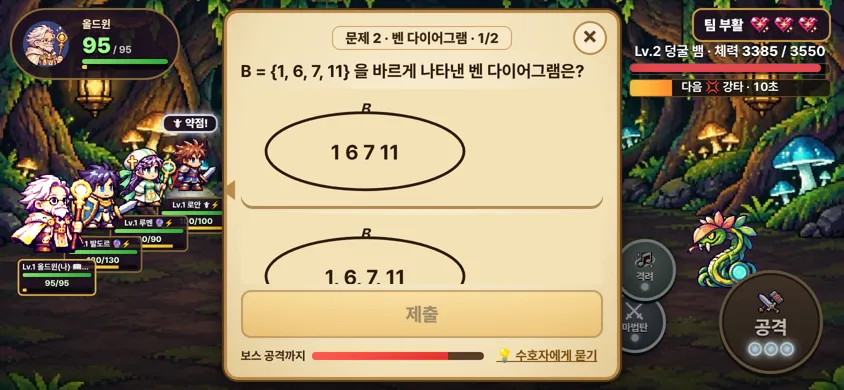
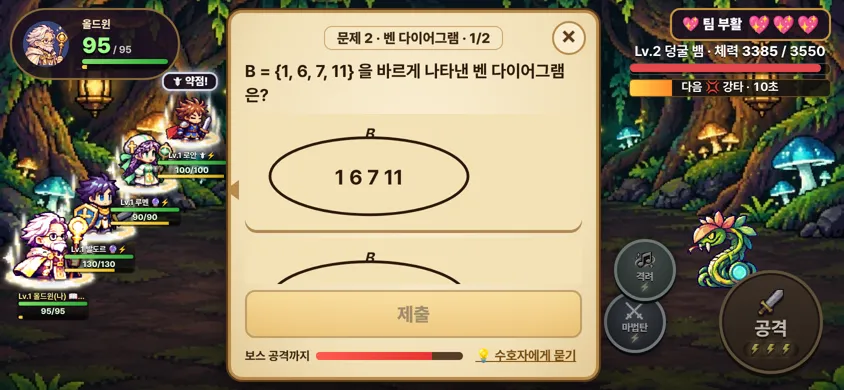
🎨 게시판 ATB 실드 그림 넣음(atb-shield 방패막 4 × 3 · atb-shield-slots 5계열 × 3 · 더하기 섞기) · 참고 그림 대조(이름표 = 상자 없이 글 + 막대 · 카드 44%) · 이름표 · 배지가 모든 용사 몸 위(카드 연 채 겹침 · 스킬 칸 ↔ 카드 끝 겹침 풂)
Claude-Session: https://claude.ai/code/session_014JJv1i25u9zUunrXW3xZfb

diff --git a/src/ui/board/atb/AtbBattle.svelte b/src/ui/board/atb/AtbBattle.svelte
@@ -140,6 +140,9 @@
   let pops = $state<Pop[]>([]), seen = 0, pk = 0, hpose = $state<Record<number, HPose | ''>>({}), hurtOn = $state<Record<number, boolean>>({}), bossPose = $state<'idle' | 'attack' | 'hit' | 'down'>('idle'), cut = $state<{ who: number; awk: boolean; name: string; short: boolean } | null>(null);
   // 🛡 실드 (📜 요청 #12): 칸마다 연출 단계(hold = 아직 멀쩡해 보임 · crack = 금 감 · shatter = 조각나며 사라짐) · 방패막 물결 · 산산조각 · 큰 문구
   const FAM_EMO: Record<Fam, string> = { arms: '🗡', flame: '🔥', nature: '🍃', wisdom: '📖', mystic: '🔮' };
+  // 🎨 실드 그림 (작업대 atb-shield · atb-shield-slots · 11/20): 방패막 4칸 × 3줄(서 있음 · 막음 · 깨짐) · 칸 아이콘 5계열 × 3줄(멀쩡 · 금 감 · 깨짐)
+  const SHIELD_URL = `${import.meta.env.BASE_URL}art/board-atb/atb-shield-v1.webp`, SLOT_URL = `${import.meta.env.BASE_URL}art/board-atb/atb-shield-slots-v1.webp`;
+  const FAM_COL_I: Record<Fam, number> = { arms: 0, flame: 1, nature: 2, wisdom: 3, mystic: 4 };
   const FAM_COL: Record<Fam, string> = { arms: '#d8dcf0', flame: '#ff7a2a', nature: '#6ee05a', wisdom: '#5ab0ff', mystic: '#c88aff' };
   let cellAnim = $state<Record<number, 'hold' | 'crack' | 'shatter'>>({}), barrier = $state<'' | 'up' | 'ripple' | 'shatter'>(''), bigMsg = $state<{ t: string; cls: string } | null>(null), bossShield = $state(false);
   let msgN = 0, cutN = 0; // $state 는 넣은 객체를 프록시로 바꿈 → 같은지 = 번호로
@@ -336,19 +339,19 @@
       <div class="cells" data-k="atb-cells" aria-label="실드 {S.cells.filter((c) => !c.broken).length}칸 남음">
         {#each S.cells as c, i (i)}
           {@const st = cellAnim[i] ?? (c.broken ? 'gone' : 'ok')}
-          <span class="cell2 {st}" style:--fc={FAM_COL[c.fam]} data-st={st} title="{S.heroes[c.owner]?.s.name} · {FAM_NAME[c.fam]}"><i class="em">{FAM_EMO[c.fam]}</i>{#if st === 'crack' || st === 'shatter'}<i class="ck" aria-hidden="true"></i>{/if}{#if st === 'shatter'}{#each [0, 1, 2, 3, 4, 5] as k (k)}<b class="sh" style:--a="{k * 60}deg"></b>{/each}{/if}{#if S.boss.sig === 'lock'}<i class="lk" aria-hidden="true">{c.broken ? '🔓' : '🔒'}</i>{/if}</span>
+          <span class="cell2 {st}" style:--fc={FAM_COL[c.fam]} style:--col={FAM_COL_I[c.fam]} data-st={st} title="{S.heroes[c.owner]?.s.name} · {FAM_NAME[c.fam]}"><i class="sl" style:background-image="url({SLOT_URL})" aria-hidden="true"></i>{#if S.boss.sig === 'lock'}<i class="lk" aria-hidden="true">{c.broken ? '🔓' : '🔒'}</i>{/if}</span>
         {/each}
       </div>
     {/if}
   </div>
-  {#if barrier || (S.shieldUp && S.cells.some((c) => !c.broken))}<i class="barrier {barrier || 'up'}" style:left={open ? '86%' : '73%'} style:width="{Math.round(bossSize * 1.25)}px" style:height="{Math.round(bossSize * 1.15)}px" data-k="atb-barrier" aria-hidden="true"></i>{/if}
+  {#if barrier || (S.shieldUp && S.cells.some((c) => !c.broken))}<i class="barrier {barrier || 'up'}" style:left={open ? '86%' : '73%'} style:width="{Math.round(bossSize * 1.25)}px" style:height="{Math.round(bossSize * 1.25)}px" style:background-image="url({SHIELD_URL})" data-k="atb-barrier" aria-hidden="true"></i>{/if}
   <div class="boss" class:roar={bossShield} class:stone={stone > 0} style:left={open ? '86%' : '73%'} style:width="{bossSize}px" style:height="{bossSize}px" data-k="atb-boss" data-flip={S.boss.flip?.[bossPose] ? 1 : 0} bind:this={bossEl}><i class="bflip" class:flip={!!S.boss.flip?.[bossPose]} class:armor class:shine={mirrorLeft > 0} class:breath={breathLeft > 0}><Sprite ref={S.boss.sprite} pose={bossPose} size={bossSize} /></i></div>
 
   <!-- 용사 -->
   {#each S.heroes as h (h.id)}
     {@const p = posOf(h.id)}
     {@const sc = +(base * p.s).toFixed(2)}
-    <div class="hero" class:down={h.down} class:mine={h.id === me} class:hurt={hurtOn[h.id]} class:aura={auraOn && !h.down} style:left="{p.x}%" style:top="{p.y}%" style:z-index={10 + (4 - order.indexOf(h.id))} data-k="atb-hero" data-id={h.id}>
+    <div class="hero" class:down={h.down} class:mine={h.id === me} class:hurt={hurtOn[h.id]} class:aura={auraOn && !h.down} style:left="{p.x}%" style:top="{p.y}%" style:--zi={10 + (4 - order.indexOf(h.id))} data-k="atb-hero" data-id={h.id}>
       {#if isWeak(h.id) && !h.down}<i class="wglow" style:--fc={FAM_COL[h.s.fam]} aria-hidden="true"></i><i class="wbadge" style:--fc={FAM_COL[h.s.fam]} style:top="{-Math.round(base * p.s * 64 * 1.02) - 22}px" data-k="atb-weak">{FAM_EMO[h.s.fam]} 약점!</i>{/if}
       {#if S.target?.includes(h.id) && tele}{#if S.boss.tele === 'gaze' && !S.aoeNext}<i class="gaze" aria-label="보스가 바라봄">👁</i>{:else}<i class="tgt" aria-label="표적"></i>{/if}{#if !S.aoeNext}<i class="aimx" style:top="{-Math.round(base * p.s * 64 * 0.95)}px" data-k="atb-aim" aria-label="노림">⊕</i>{/if}{/if}
       <div class="spr" style:transform="translate(-50%, -100%)" bind:this={heroEls[h.id]}><HeroSprite id={lookOfStats(h.s)} scale={sc} aura={h.down ? 0 : h.s.enh} row={h.down ? 8 : 0} play={!h.down} pose={!h.down && hpose[h.id] ? hpose[h.id] || undefined : undefined} /><i class="hitpic" data-k="atb-hitpic" aria-hidden="true"></i></div>
@@ -442,7 +445,8 @@
   .bflip { display: block; } .bflip.flip { transform: scaleX(-1); } /* 몬스터는 늘 왼쪽(용사 쪽)을 봄 · 시트마다 · 자세마다 다름 = tune.ts BOSSES.flip */
   .boss { position: absolute; top: 74%; transform: translate(-50%, -100%); z-index: 11; transition: left 0.45s ease; }
   .hero { position: absolute; transition: left 0.45s ease, top 0.45s ease; }
-  .hero .spr { position: absolute; left: 0; top: 0; }
+  .hero .spr { position: absolute; left: 0; top: 0; z-index: var(--zi); } /* 앞 용사 몸 = 뒤 용사 몸 위 · 이름표 · 배지 = 모든 몸 위 (요청 #15) */
+  .hero .tag, .hero .wbadge, .hero .sos, .hero .aimx { z-index: 20; }
   .hero.down .spr { filter: grayscale(1) brightness(0.6); }
   .tele.sig { background: linear-gradient(#3a5ac8, #1d2f8e); border-color: #9fd0ff; box-shadow: 0 0 10px #5aa9ff88; }
   .bflip.armor { filter: drop-shadow(0 0 4px #9fe6ff) drop-shadow(0 0 10px #5ac8ff) saturate(0.7) brightness(1.15); } /* 4 얼음 갑옷 */
@@ -452,15 +456,15 @@
   .pop.heal { color: #7dffb0; font-size: 20px; }
   .tgt { position: absolute; left: -26px; top: -10px; width: 52px; height: 18px; border-radius: 50%; border: 3px solid #ff3a2a; box-shadow: 0 0 10px #ff3a2a; animation: blink 0.4s steps(2) infinite; }
   .cov { position: absolute; left: 14px; top: -54px; }
-  .tag { position: absolute; left: -42px; top: 2px; width: 84px; display: flex; flex-direction: column; gap: 2px; padding: 2px 4px 3px; border-radius: 6px; border: 2px solid #8a6a3a; background: #1d1220d9; }
+  .tag { position: absolute; left: -42px; top: 2px; width: 84px; display: flex; flex-direction: column; gap: 1px; padding: 1px 2px 2px; border-radius: 6px; border: none; background: linear-gradient(#0000, #0006 30%, #0006); text-shadow: 0 1px 0 #000, 0 0 3px #000; } /* 📜 요청 #14 참고 그림 = 상자 없이 글 + 막대 */
   .tag > b { font: 700 9.5px var(--font-plain); text-align: center; white-space: nowrap; overflow: hidden; text-overflow: ellipsis; }
-  .hero.mine .tag { border-color: #e2b04a; }
+  .hero.mine .tag > b { color: #ffe08a; }
   .hz { font-size: 9px; font-style: normal; line-height: 1; }
   .pop { position: absolute; z-index: 25; transform: translate(-50%, 0); font: 900 22px var(--font); color: #fff; text-shadow: 0 2px 0 #000, 0 0 6px #000; pointer-events: none; animation: up 1.1s ease-out forwards; white-space: nowrap; }
   .pop.crit { color: #ffe066; font-size: 34px; } .pop.sk { color: #8fd0ff; font-size: 34px; } .pop.ult { color: #ffd34d; font-size: 46px; } .pop.hurt { color: #ff6a6a; font-size: 20px; } .pop.hurt.big { font-size: 26px; } .pop.miss { color: #ccc; font-size: 20px; }
   .pop.crit, .pop.sk, .pop.ult { animation: upbig 1.1s ease-out forwards; } @keyframes upbig { 0% { opacity: 1; transform: translate(-50%, 0) scale(1.8); } 15% { transform: translate(-50%, -6px) scale(1); } 100% { opacity: 0; transform: translate(-50%, -56px) scale(1); } } .pop.shield { color: #9fe6ff; font-size: 22px; } .pop.role { color: #9dff9a; font-size: 16px; }
   @keyframes up { from { opacity: 1; transform: translate(-50%, 0); } to { opacity: 0; transform: translate(-50%, -48px); } }
-  .card { position: absolute; z-index: 26; left: 26.5%; top: 2.5%; bottom: 2.5%; width: 47%; animation: slide 0.35s ease-out; transform-origin: 10% 10%; } /* Y7 약 47% */
+  .card { position: absolute; z-index: 26; left: 27%; top: 2.5%; bottom: 2.5%; width: 44%; animation: slide 0.35s ease-out; transform-origin: 10% 10%; } /* Y7 약 47% */
   .card.suck { transition: transform 0.42s ease-in, opacity 0.42s ease-in; transform: translate(-80%, -20%) scale(0.05) rotate(-20deg); opacity: 0; }
   @keyframes slide { from { transform: translateX(30px); opacity: 0; } }
   /* ⚔ 오른쪽 아래 큰 공격 단추 + 둘레 스킬 고리 (요청 #9) · 📜 문제 풀기 = 왼쪽 아래 · 문제를 열면 = 카드 왼쪽 */
@@ -523,23 +527,22 @@
   @media (prefers-reduced-motion: reduce) { .weakb, .tele, .b.atk.hot, .tgt, .barrier, .bigmsg { animation: none; } }
   /* 🛡 실드 칸 = 보스 체력바 아래 크게 한 줄 (요청 #12 ② · 그림 atb-shield-slots 오기 전 = 큰 이모지 + 굵은 계열 색 테두리) */
   .cells { display: flex; justify-content: center; gap: 8px; margin-top: 2px; }
-  .cell2 { position: relative; width: 44px; height: 44px; border-radius: 12px; display: grid; place-items: center; border: 4px solid var(--fc); background: radial-gradient(circle at 50% 35%, #ffffff40, #0009 70%); box-shadow: 0 0 10px var(--fc), inset 0 0 8px var(--fc); }
-  .cell2 .em { font-style: normal; font-size: 24px; line-height: 1; filter: drop-shadow(0 2px 0 #000); }
+  .cell2 { position: relative; width: 48px; height: 48px; display: grid; place-items: center; filter: drop-shadow(0 0 6px var(--fc)); }
+  .cell2 .sl { position: absolute; inset: 0; background-repeat: no-repeat; background-size: 500% 300%; background-position: calc(var(--col) * 25%) 0%; image-rendering: pixelated; }
+  .cell2.crack .sl, .cell2.hold.crk .sl { background-position-y: 50%; } .cell2.shatter .sl { background-position-y: 100%; }
   .cell2.hold { animation: none; }
-  .cell2.crack { animation: cshake 0.38s; } .cell2.crack .em, .cell2.shatter .em { filter: brightness(1.6) drop-shadow(0 2px 0 #000); }
-  .cell2 .ck { position: absolute; inset: 2px; border-radius: 8px; background: linear-gradient(115deg, #0000 44%, #fff 46%, #0000 48%), linear-gradient(60deg, #0000 55%, #fff 57%, #0000 59%), linear-gradient(160deg, #0000 30%, #fffc 32%, #0000 34%); pointer-events: none; }
+  .cell2.crack { animation: cshake 0.38s; }
   @keyframes cshake { 20% { translate: -3px 0; } 40% { translate: 3px 0; } 60% { translate: -2px 0; } 80% { translate: 2px 0; } }
   .cell2.shatter { animation: cgone 0.45s ease-in forwards; }
   @keyframes cgone { to { opacity: 0; scale: 1.3; } }
-  .cell2 .sh { position: absolute; left: 50%; top: 50%; width: 10px; height: 10px; background: var(--fc); clip-path: polygon(0 0, 100% 30%, 40% 100%); animation: shard 0.45s ease-out forwards; }
-  @keyframes shard { from { transform: translate(-50%, -50%) rotate(var(--a)) translateY(0); } to { transform: translate(-50%, -50%) rotate(var(--a)) translateY(-34px) rotate(200deg); opacity: 0; } }
-  .cell2.gone { border-style: dashed; border-color: #ffffff40; box-shadow: none; background: #0004; } .cell2.gone .em { opacity: 0.18; filter: grayscale(1); }
+  .cell2.gone { filter: none; } .cell2.gone .sl { background-position-y: 100%; opacity: 0.22; filter: grayscale(1); }
   .cell2 .lk { position: absolute; right: -8px; bottom: -8px; font-size: 15px; font-style: normal; }
   /* 🛡 방패막 (그림 atb-shield 오기 전 = 빛 테두리) · 펼침 · 물결 · 산산조각 */
-  .barrier { position: absolute; top: 74%; z-index: 12; transform: translate(-50%, -96%); border-radius: 50%; pointer-events: none; border: 3px solid #9fe6ffcc; background: radial-gradient(ellipse at 50% 45%, #9fe6ff10 55%, #9fe6ff40 80%, #9fe6ff10); box-shadow: 0 0 18px #5ac8ff99, inset 0 0 24px #9fe6ff66; transition: left 0.45s ease; }
-  .barrier.up { animation: bup 0.6s ease-out; } @keyframes bup { from { scale: 0.3; opacity: 0; } to { scale: 1; opacity: 1; } }
-  .barrier.ripple { animation: brip 0.5s ease-out; } @keyframes brip { 30% { scale: 1.06; border-color: #fff; box-shadow: 0 0 34px #fff, inset 0 0 40px #9fe6ff; } }
-  .barrier.shatter { animation: bshat 0.7s ease-out forwards; } @keyframes bshat { 20% { scale: 1.1; border-color: #fff; filter: brightness(2); } to { scale: 1.4; opacity: 0; border-style: dashed; } }
+  .barrier { position: absolute; top: 75%; z-index: 11; transform: translate(-50%, -100%); pointer-events: none; background-repeat: no-repeat; background-size: 400% 300%; background-position: 0% 0%; mix-blend-mode: screen; mix-blend-mode: plus-lighter; transition: left 0.45s ease; }
+  .barrier.up { animation: bup 0.5s ease-out, bloop 1.2s steps(4) 0.5s infinite; } @keyframes bup { from { scale: 0.3; opacity: 0; } to { scale: 1; opacity: 1; } }
+  @keyframes bloop { from { background-position-x: 0%; } to { background-position-x: 133.33%; } }
+  .barrier.ripple { background-position-y: 50%; animation: bhit 0.5s steps(4) forwards; } @keyframes bhit { from { background-position-x: 0%; } to { background-position-x: 133.33%; } }
+  .barrier.shatter { background-position-y: 100%; animation: bhit 0.7s steps(4) forwards; }
   .boss.roar { animation: roar 0.8s ease-out; } @keyframes roar { 40% { filter: brightness(1.5) drop-shadow(0 0 12px #9fe6ff); } }
   /* 💬 큰 문구 (실드! · 실드 파괴 · 약점 시간) */
   .bigmsg { position: absolute; z-index: 44; left: 50%; top: 42%; transform: translate(-50%, -50%); padding: 8px 28px; border-radius: 16px; border: 3px solid #9fe6ff; background: linear-gradient(#1d5ac8ee, #0d2f6aee); color: #fff; font: 900 clamp(26px, 10vh, 44px) var(--font); text-shadow: 0 3px 0 #000; white-space: nowrap; pointer-events: none; animation: bigin 0.35s ease-out; }
@@ -554,7 +557,7 @@
   .me.wk { border-color: var(--fc); box-shadow: 0 0 12px var(--fc); }
   .btns.wk .b.atk, .btns.wk .sk2.shield { border-color: var(--fc); box-shadow: 0 0 14px var(--fc), 0 4px 0 #1a100a; }
   .stage.q .tag { transform: scale(0.82); transform-origin: top center; }
-  .tag.full { border-color: #ffd34d; box-shadow: 0 0 8px #ffd34d; } .tag .fe { font-style: normal; }
+  .tag.full { box-shadow: 0 0 10px #ffd34d88; } .tag.full > b { color: #fff3a0; } .tag .fe { font-style: normal; }
   /* 🆘 위험 체력 (요청 #18) */
   .tag.low .thin.hp b { background: #ff2a2a; } .tag.low .hn { color: #ff6a5a; }
   .tag.low .thin.hp, .tag.low .hn { animation: lowb 1s steps(2) infinite; } @keyframes lowb { 50% { opacity: 0.35; } }
